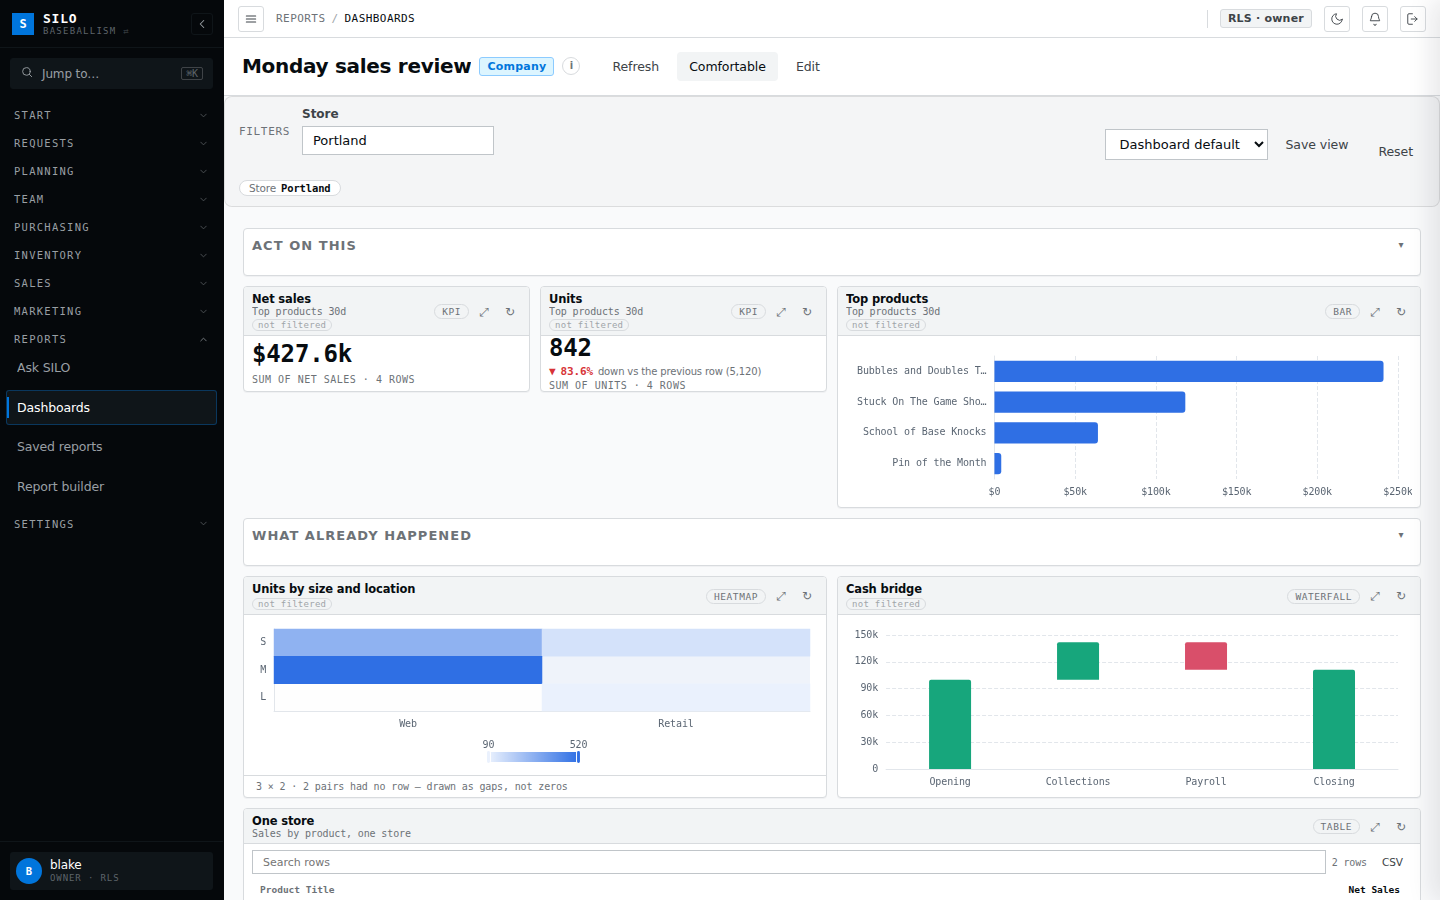
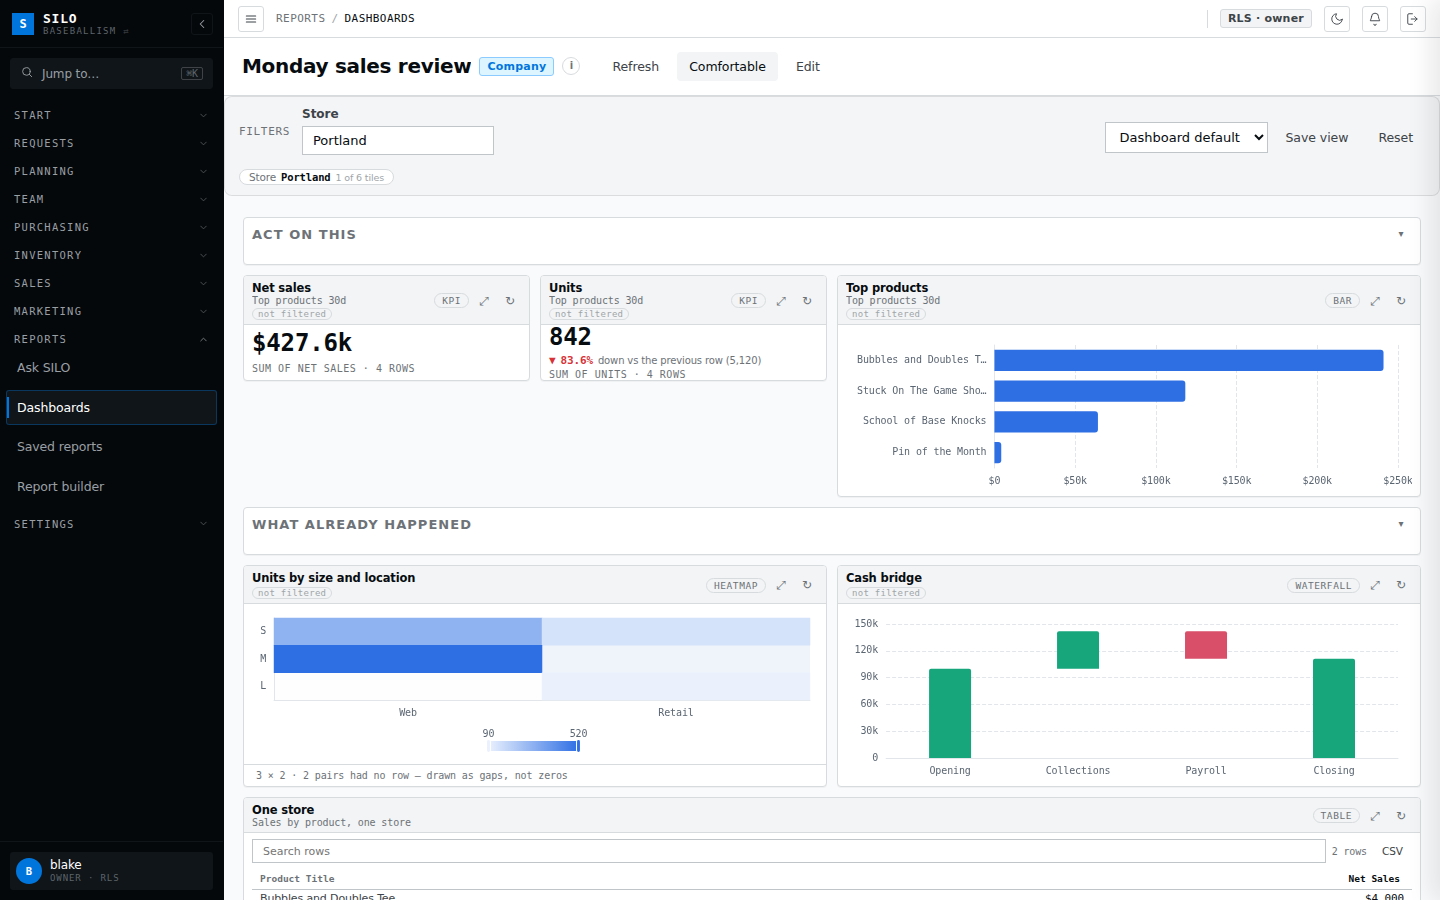
v3: filter chips say how many tiles a control drives
Replaces `unsupportedWidgetIds()`, which nothing called: dead code in a
new module is worse than a missing convenience, and two definitions of
"which tiles does this filter reach" would have drifted. The
participation data it was computing now feeds the chip instead —
"Store Portland · 1 of 6 tiles" — which is the honest sentence, and the
count that stops a reader assuming all six moved. The three tiles it
misses are still marked on their own faces; this is the total, not a
substitute for that.

Also: Reset sat a row lower than the controls beside it. It carried a
label-height offset from when it lived directly in .v3-slicer-fields,
and .v3-slicer-actions now carries that offset for the whole group.

Screenshots regenerated.

Claude-Session: https://claude.ai/code/session_013tiDtJJ89DcPAUr83e2Tu8

diff --git a/v3/js/filter-bar.js b/v3/js/filter-bar.js
@@ -470,6 +470,27 @@
       if (chipsEl) paintChips(values);
     }
 
+    /**
+     * How many tiles a control actually moves.
+     *
+     * Stated on the chip because "this filter drives 6 of 9 tiles" is the
+     * honest sentence, and a header control that silently misses three of
+     * them teaches the reader that all nine are filtered. The three are
+     * ALSO marked on their own faces; this is the count, not a substitute
+     * for that.
+     */
+    function reachNote(keys) {
+      const supported = new Set();
+      const all = new Set();
+      for (const k of keys) {
+        const part = participation(k) || { supported: [], unsupported: [] };
+        for (const id of part.supported) { supported.add(id); all.add(id); }
+        for (const id of part.unsupported) all.add(id);
+      }
+      if (!all.size || supported.size === all.size) return '';
+      return `${supported.size} of ${all.size} tiles`;
+    }
+
     function chipHtml(label, value, extra) {
       return `<span class="v3-filter-chip">
           <span class="v3-filter-chip-key">${esc(label)}</span>
@@ -484,14 +505,19 @@
         if (g.kind === 'range') {
           const f = resolved(values[g.from.key]);
           const t = resolved(values[g.to.key]);
-          if (f && t) parts.push(chipHtml(g.label || 'Dates', `${f} → ${t}`, 'inclusive'));
+          const reach = reachNote([g.from.key, g.to.key]);
+          if (f && t) {
+            parts.push(chipHtml(g.label || 'Dates', `${f} → ${t}`,
+              reach ? `inclusive · ${reach}` : 'inclusive'));
+          }
           continue;
         }
         const d = g.decl;
         if (d.conflict) continue;
         const v = values[d.key];
         if (v === undefined || v === '') continue;
-        const note = d.type === 'date' ? dateNote(v) : '';
+        const note = [d.type === 'date' ? dateNote(v) : '', reachNote([d.key])]
+          .filter(Boolean).join(' · ');
         parts.push(chipHtml(d.label, v, note));
       }
       for (const [key, v] of pending) {
@@ -506,26 +532,6 @@
       chipsEl.hidden = !parts.length;
     }
 
-    /**
-     * Which widgets each declared key does NOT reach. The caller marks
-     * those tiles; saying it once in the bar and never on the tile is how
-     * a reader concludes a stale number is a filtered one.
-     */
-    function unsupportedWidgetIds() {
-      const keys = getDeclarations().filter((d) => !d.conflict).map((d) => d.key);
-      if (!keys.length) return new Set();
-      const supported = new Set();
-      const all = new Set();
-      for (const k of keys) {
-        const part = participation(k);
-        for (const id of part.supported) supported.add(id);
-        for (const id of part.supported.concat(part.unsupported)) all.add(id);
-      }
-      const out = new Set();
-      for (const id of all) if (!supported.has(id)) out.add(id);
-      return out;
-    }
-
     /** Commit anything typed but not yet applied (used before Save). */
     function flush() {
       const patch = {};
@@ -534,7 +540,7 @@
       return commit(patch).then(() => true);
     }
 
-    return { sync, paint, flush, hasPending, unsupportedWidgetIds, groupDeclarations, DATE_PRESETS, RANGE_PRESETS };
+    return { sync, paint, flush, hasPending, groupDeclarations, DATE_PRESETS, RANGE_PRESETS };
   }
 
   global.SiloFilterBar = { create, groupDeclarations, DATE_PRESETS, RANGE_PRESETS, matchRangePreset };

diff --git a/v3/tests/browser/bi-workspace.test.js b/v3/tests/browser/bi-workspace.test.js
@@ -152,6 +152,11 @@ const ok = (n, c, extra) => {
     (await page.locator('.dw[data-widget-id="WB"] .dw-nofilter').count()) === 1);
   ok('...and the marker names the parameter it ignores',
     /\{\{store\}\}/.test(await page.getAttribute('.dw[data-widget-id="WB"] .dw-nofilter', 'title')));
+  // The count belongs in the header too: "this drives 1 of 2 tiles" is the
+  // honest sentence, and it is what stops a reader assuming all of them moved.
+  ok('the filter chip says how many tiles the control actually drives',
+    (await page.textContent('#filterChips')).includes('1 of 2 tiles'),
+    await page.textContent('#filterChips'));
 
   // A filter change must not silently leave the unfiltered tile looking
   // like it moved with everything else.

diff --git a/v3/dashboard.css b/v3/dashboard.css
@@ -513,7 +513,11 @@
    on one line and lets the hint hang below without moving anything. */
 .v3-slicer-fields { display: flex; align-items: flex-start; gap: 12px; flex-wrap: wrap; flex: 1; }
 .v3-slicer-field { min-width: 150px; }
-.v3-slicer-reset { align-self: flex-start; margin-top: 15px; }
+/* The reset button used to sit directly in .v3-slicer-fields and needed its
+   own label-height offset. It now lives in .v3-slicer-actions, which carries
+   that offset for the whole group -- keeping it here too pushed Reset a row
+   lower than the controls beside it. */
+.v3-slicer-reset { align-self: center; }
 
 /* Preset select and the custom-date input sit on one line; the input is
    hidden until "Specific date…" is chosen. */
